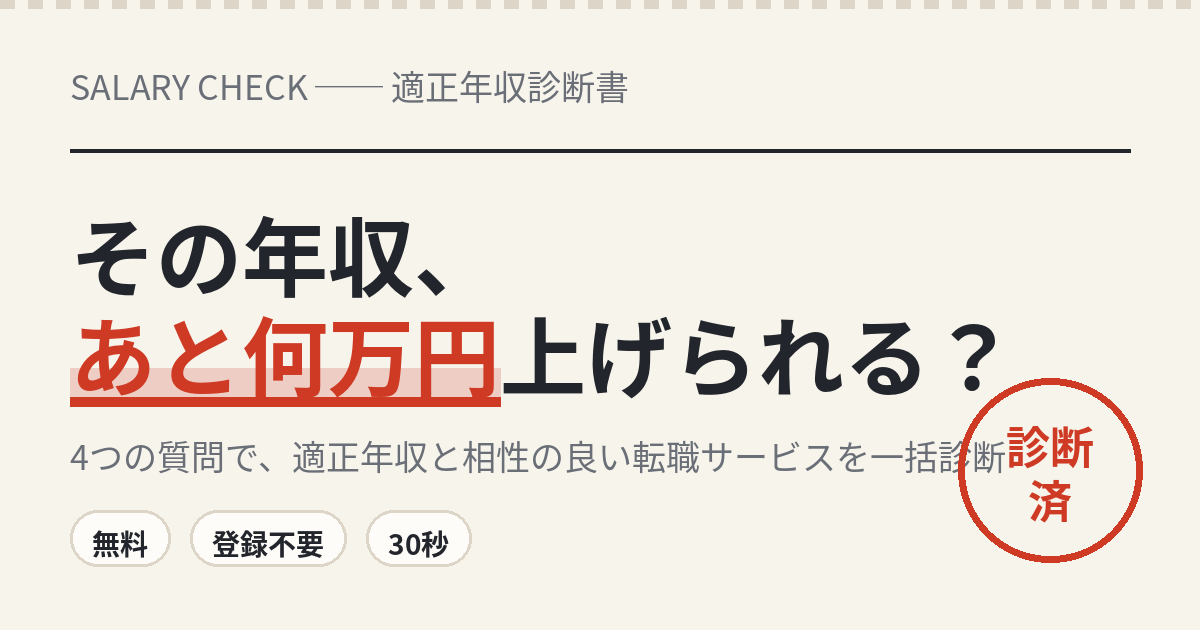
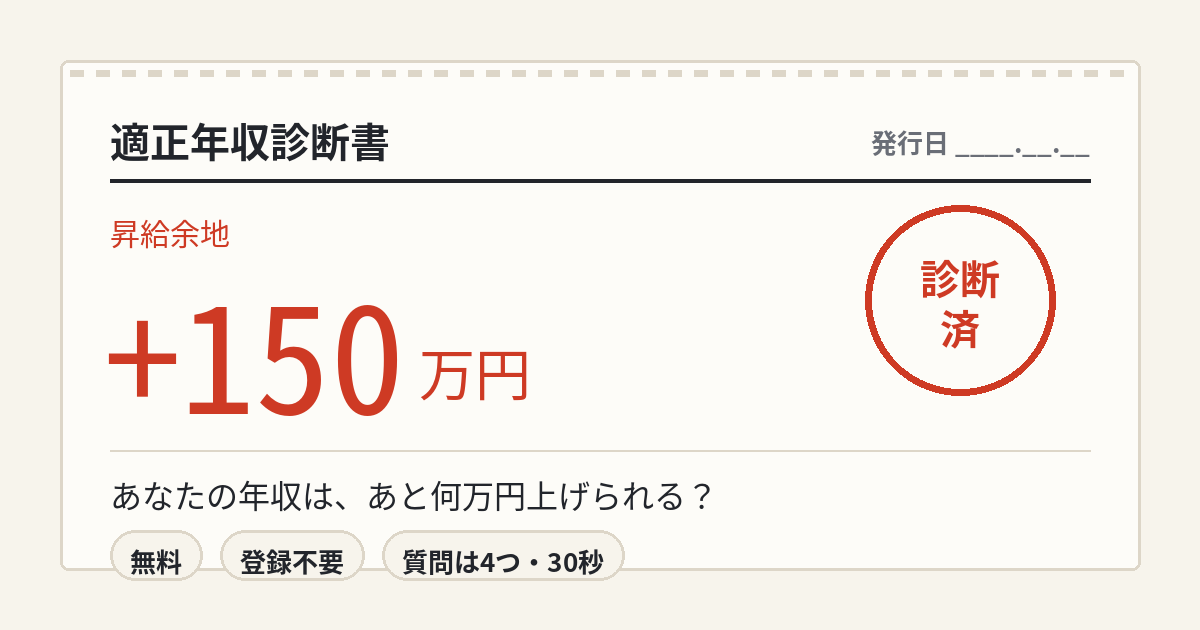
fix: 3系統監査(競合/シニアエンジニア/デザイン)のCritical・High指摘を修正
- C2 誠実性: 「必ず+40万円出る」水増し加算を廃止。推定が現年収以下の人には
  「水準クリア」と正直に表示し、シェア文言もそれ用に分岐(景表法・優良誤認対策)
- C1: アフィリエイトURLが未設定のカードは非表示に(壊れたリンクの露出と
  GA4への偽クリック蓄積を防止)。実URL設定後に自動で出る
- H1: アフィリンクを target=_blank + rel="noopener sponsored" に
- H3 ステマ規制: ［PR］表記をヒーロー直下に常時表示化+注記のコントラスト改善
- H4 a11y: 選択ボタンに aria-pressed
- M1/M2 計測: 同一入力の連打で diagnosis_complete を重複送信しない、
  イベントに job/age/income/dir/above_market/payout パラメータ追加
- デザイン監査反映: 診断書カードに発行元URL刷り込み(スクショ拡散→流入導線)、
  「昇給余地」を最大サイズに昇格(主役の数字)、CTA無効時の色を生きた色に
- OG画像作り直し: 判子の文字被り・見切れ解消、+150万円のドット数字を主役に

diff --git a/index.html b/index.html
@@ -55,6 +55,7 @@
   .hero .lede{font-size:14px;color:var(--ink-soft);max-width:33em;}
   .hero .pills{display:flex;gap:8px;margin-top:16px;flex-wrap:wrap;}
   .hero .pill{font-size:12px;font-weight:700;border:1.5px solid var(--line);background:var(--paper-2);border-radius:999px;padding:4px 12px;color:var(--ink);}
+  .prline{font-size:12px;color:var(--ink-soft);margin-top:14px;}
 
   .wrap{max-width:640px;margin:0 auto;padding:0 16px 64px;}
 
@@ -75,7 +76,7 @@
   .selbox::after{content:"";position:absolute;right:16px;top:50%;width:9px;height:9px;border-right:2px solid var(--ink-soft);border-bottom:2px solid var(--ink-soft);transform:translateY(-70%) rotate(45deg);pointer-events:none;}
   .cta{display:block;width:100%;min-height:54px;padding:15px;background:var(--indigo);color:#fff;border:none;border-radius:8px;font-size:16px;font-weight:700;cursor:pointer;margin-top:16px;transition:background .15s,transform .1s;}
   .cta:active{transform:scale(.985);background:var(--indigo-deep);}
-  .cta:disabled{background:#C9C4B8;cursor:not-allowed;}
+  .cta:disabled{background:#9AA7CB;cursor:not-allowed;}
 
   /* ---- 診断書（シグネチャー） ---- */
   #result{scroll-margin-top:12px;}
@@ -90,10 +91,12 @@
   .rows .row dt{font-size:13px;color:var(--ink-soft);font-weight:500;}
   .rows .row dd{font-family:var(--f-dot);font-size:19px;letter-spacing:.02em;}
   .rows .row dd small{font-size:12px;margin-left:2px;font-family:var(--f-body);color:var(--ink-soft);}
-  .rows .fitrow dd{font-size:34px;line-height:1.1;}
+  .rows .fitrow dd{font-size:26px;line-height:1.1;}
   .rows .diffrow{border-bottom:2px solid var(--ink);}
   .rows .diffrow dt{color:var(--shu);font-weight:700;}
-  .rows .diffrow dd{color:var(--shu);font-size:26px;}
+  .rows .diffrow dd{color:var(--shu);font-size:38px;line-height:1.1;}
+  .okmark{font-family:var(--f-min);font-size:24px;font-weight:800;letter-spacing:.08em;}
+  .sheet-imprint{font-family:var(--f-dot);font-size:10.5px;color:var(--ink-soft);margin-top:14px;letter-spacing:.06em;}
   .gauge{height:12px;background:var(--paper-deep);border:1px solid var(--line);border-radius:2px;overflow:hidden;margin:18px 0 4px;position:relative;}
   .gauge::after{content:"";position:absolute;inset:0;
     background:repeating-linear-gradient(90deg,transparent 0 24px,rgba(34,37,43,.14) 24px 25px);}
@@ -137,7 +140,7 @@
   .copyshare.copied{border-color:var(--indigo);color:var(--indigo);}
   @media (min-width:480px){ .sharerow{flex-direction:row;} }
 
-  .note{font-size:11px;color:#9B968A;margin-top:22px;line-height:1.8;}
+  .note{font-size:11.5px;color:var(--ink-soft);margin-top:22px;line-height:1.8;}
   .hidden{display:none;}
   .footer{text-align:center;padding:20px 16px calc(36px + env(safe-area-inset-bottom));font-size:12px;color:var(--ink-soft);}
   .footer a{color:var(--indigo);text-decoration:none;}
@@ -163,6 +166,7 @@
   <h1>その年収、<br><em>あと何万円</em>上げられる？</h1>
   <p class="lede">同業種・同年代の水準からあなたの「適正年収」を推定。提携<span id="svcCount">16</span>の転職サービスの中から、いま選ぶべき3つまで一括でご提案します。</p>
   <div class="pills"><span class="pill">無料</span><span class="pill">登録不要</span><span class="pill">質問は4つ</span></div>
+  <p class="prline">［PR］本ページはアフィリエイト広告を含みます</p>
 </header>
 
 <main class="wrap">
@@ -239,10 +243,11 @@
       <dl class="rows">
         <div class="row"><dt>現在の年収</dt><dd id="curv">---</dd></div>
         <div class="row fitrow"><dt>適正年収（推定）</dt><dd><span id="fit">0</span><small>万円</small></dd></div>
-        <div class="row diffrow"><dt>昇給余地</dt><dd>+<span id="diff">0</span><small>万円</small></dd></div>
+        <div class="row diffrow" id="diffrow"><dt>昇給余地</dt><dd>+<span id="diff">0</span><small>万円</small></dd></div>
       </dl>
       <div class="gauge"><i id="gauge"></i></div>
       <p class="vmsg" id="msg"></p>
+      <p class="sheet-imprint">SALARY CHECK ── clawtech6477.github.io/nenshu-shindan</p>
       <span class="stamp" id="stamp" aria-hidden="true">診断<br>済</span>
     </div>
 
@@ -348,9 +353,12 @@ function sync(){
 
 ["age","dir"].forEach(id=>{
   document.querySelectorAll(`#${id} button`).forEach(b=>{
+    b.setAttribute("aria-pressed","false");
     b.onclick=()=>{
-      document.querySelectorAll(`#${id} button`).forEach(x=>x.classList.remove("on"));
-      b.classList.add("on");
+      document.querySelectorAll(`#${id} button`).forEach(x=>{
+        x.classList.remove("on"); x.setAttribute("aria-pressed","false");
+      });
+      b.classList.add("on"); b.setAttribute("aria-pressed","true");
       st[id]=b.dataset.v;
       firstTouch(); sync();
     };
@@ -372,15 +380,18 @@ function countUp(el,to){
 }
 
 // ===== 診断ロジック =====
-let lastFit=0, lastDiff=0;
+let lastFit=0, lastDiff=0, lastAbove=false, lastSig="";
 document.getElementById("go").onclick=()=>{
   const ageK = {20:1.0,30:1.15,40:1.2,50:1.1}[st.age];
   const dirK = st.dir==="toit"?1.2 : st.dir==="new"?1.1 : 1.0;
   const cur = +st.income;
-  let fit = Math.round(BASE[st.job] * ageK * dirK /10)*10;
-  if(fit < cur) fit = cur + 40; // 必ず伸びしろが出る調整
-  const diff = fit - cur;
-  lastFit = fit; lastDiff = diff;
+  const fit = Math.round(BASE[st.job] * ageK * dirK /10)*10;
+  // 推定値が現年収以下でも水増ししない(「必ず伸びしろが出る」加算は
+  // 注記の「統計的な参考値」と矛盾する虚偽表示になるため廃止)。
+  // 水準超えの人には正直にそう伝え、訴求を「選択肢を広げる」に切り替える。
+  const above = fit <= cur;
+  const diff = above ? 0 : fit - cur;
+  lastFit = fit; lastDiff = diff; lastAbove = above;
 
   // 診断書ヘッダ（発行日・現在年収の表示）
   const now = new Date();
@@ -390,11 +401,19 @@ document.getElementById("go").onclick=()=>{
   document.getElementById("curv").textContent = incomeSel.selectedOptions[0] ? incomeSel.selectedOptions[0].text : "---";
 
   countUp(document.getElementById("fit"), fit);
-  countUp(document.getElementById("diff"), diff);
-  document.getElementById("msg").textContent =
-    st.dir==="toit" ? "異業種チャレンジは伸びしろ大。特化型エージェントの活用が鍵です。"
-    : diff>=150 ? "現年収と適正年収の差が大きめ。行動すれば上げられる余地があります。"
-    : "着実に年収を伸ばせるタイプ。相性の良いサービスから始めましょう。";
+  const diffRow = document.getElementById("diffrow");
+  if(above){
+    diffRow.querySelector("dd").innerHTML = '<span class="okmark">水準クリア</span>';
+    document.getElementById("msg").textContent =
+      "現在の年収は同業種・同年代の推定水準を上回っています。市場価値が高い今こそ、より良い条件・働き方を選べるタイミングです。";
+  }else{
+    diffRow.querySelector("dd").innerHTML = '+<span id="diff">0</span><small>万円</small>';
+    countUp(document.getElementById("diff"), diff);
+    document.getElementById("msg").textContent =
+      st.dir==="toit" ? "異業種チャレンジは伸びしろ大。特化型エージェントの活用が鍵です。"
+      : diff>=150 ? "現年収と適正年収の差が大きめ。行動すれば上げられる余地があります。"
+      : "着実に年収を伸ばせるタイプ。相性の良いサービスから始めましょう。";
+  }
 
   // 朱印スタンプ（カウントアップ完了後に押される）
   const stamp = document.getElementById("stamp");
@@ -438,25 +457,42 @@ document.getElementById("go").onclick=()=>{
     scored.push(...fallback.slice(0, 3-scored.length));
   }
 
-  document.getElementById("sitesTitle").textContent =
-    scored.length>=2 ? `あなたに合う転職サービス TOP${scored.length}` : "あなたに合う転職サービス";
+  // アフィリエイトURL未設定(プレースホルダー)のカードは表示しない。
+  // 押しても飛ばないリンクは「壊れたサイト」に見える上、偽のクリック計測が
+  // GA4に混ざり実URL設定後の比較を汚染するため。
+  const renderable = scored.filter(s=>!String(s.affi).startsWith("#"));
+  const titleEl = document.getElementById("sitesTitle");
   const box=document.getElementById("sites"); box.innerHTML="";
-  scored.forEach((s,i)=>{
-    const a=document.createElement("a");
-    a.href=s.affi; a.className="site"+(i===0?" top":"");
-    a.innerHTML=`<div class="rank">${i+1}</div>
-      <div><div class="nm">${s.name}</div><div class="rs">${s.rs}</div></div>
-      ${i===0?'<span class="badge">最有力</span>':''}`;
-    a.addEventListener("click",()=>{ track("site_click",{site_name:s.name, rank:i+1}); });
-    box.appendChild(a);
-  });
+  if(renderable.length===0){
+    titleEl.classList.add("hidden"); box.classList.add("hidden");
+  }else{
+    titleEl.classList.remove("hidden"); box.classList.remove("hidden");
+    titleEl.textContent =
+      renderable.length>=2 ? `あなたに合う転職サービス TOP${renderable.length}` : "あなたに合う転職サービス";
+    renderable.forEach((s,i)=>{
+      const a=document.createElement("a");
+      a.href=s.affi; a.className="site"+(i===0?" top":"");
+      a.target="_blank"; a.rel="noopener sponsored";
+      a.innerHTML=`<div class="rank">${i+1}</div>
+        <div><div class="nm">${s.name}</div><div class="rs">${s.rs}</div></div>
+        ${i===0?'<span class="badge">最有力</span>':''}`;
+      a.addEventListener("click",()=>{ track("site_click",{site_name:s.name, rank:i+1, payout:s.payout}); });
+      box.appendChild(a);
+    });
+  }
 
   const res=document.getElementById("result");
   res.classList.remove("hidden"); res.classList.add("show");
   setTimeout(()=>{document.getElementById("gauge").style.width=Math.min(diff/300*100,100)+"%";},100);
   res.scrollIntoView({behavior:window.matchMedia("(prefers-reduced-motion: reduce)").matches?"auto":"smooth"});
 
-  track("diagnosis_complete",{fit_income:fit, diff:diff});
+  // 同一入力の連打では diagnosis_complete を重複送信しない(CVR計算の汚染防止)
+  const sig = [st.age,st.income,st.job,st.dir].join("|");
+  if(sig !== lastSig){
+    lastSig = sig;
+    track("diagnosis_complete",{fit_income:fit, diff:diff, above_market:above,
+      job:st.job, age:st.age, income:st.income, dir:st.dir});
+  }
 };
 
 // ===== LINE誘導（URL未設定の間はカードごと非表示） =====
@@ -470,7 +506,9 @@ if(LINE_URL && LINE_URL !== "#line"){
 
 // ===== シェア共通 =====
 function shareText(){
-  return `私の適正年収は${lastFit}万円でした！今より+${lastDiff}万円UPの可能性🔥\n#年収診断\n`;
+  return lastAbove
+    ? `年収診断やってみたら「業界水準クリア」でした✌ あなたは？\n#年収診断\n`
+    : `私の適正年収は${lastFit}万円でした！今より+${lastDiff}万円UPの可能性🔥\n#年収診断\n`;
 }
 function shareUrl(){ return SITE_URL || location.href; }
 
